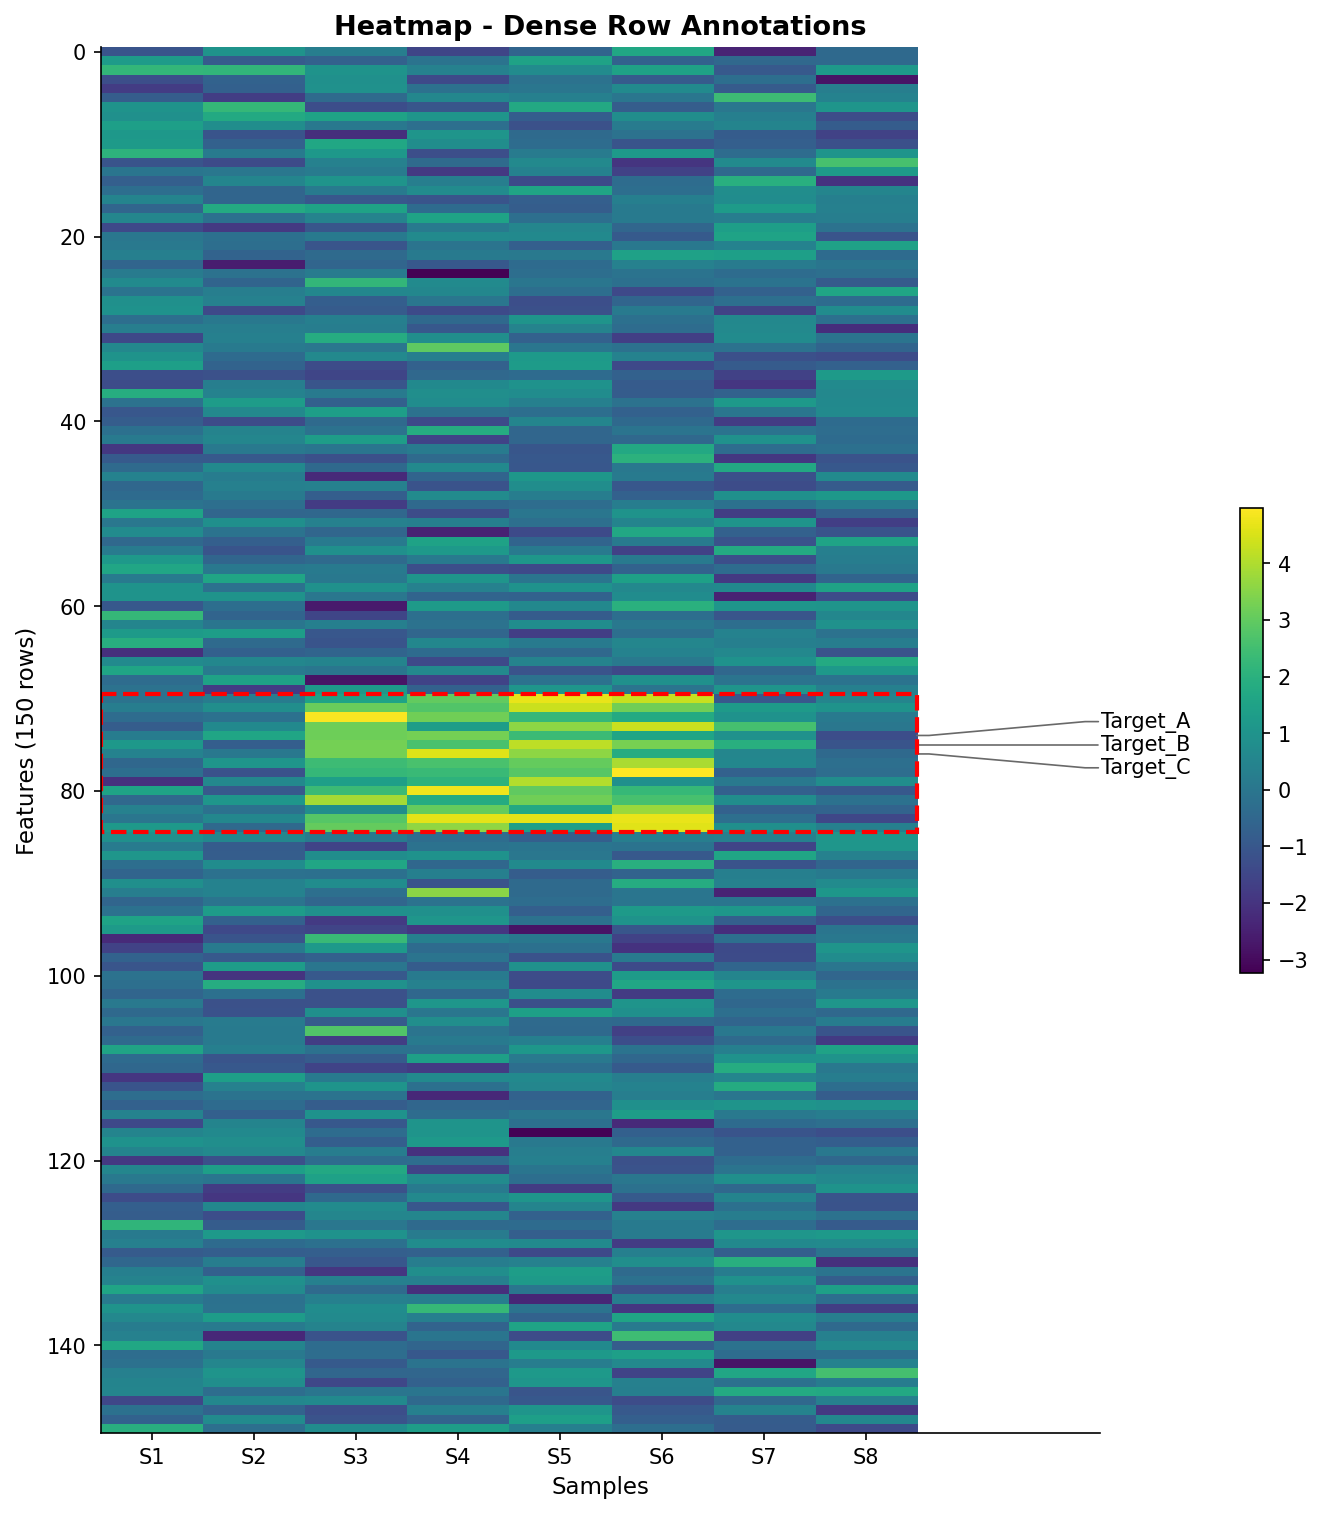
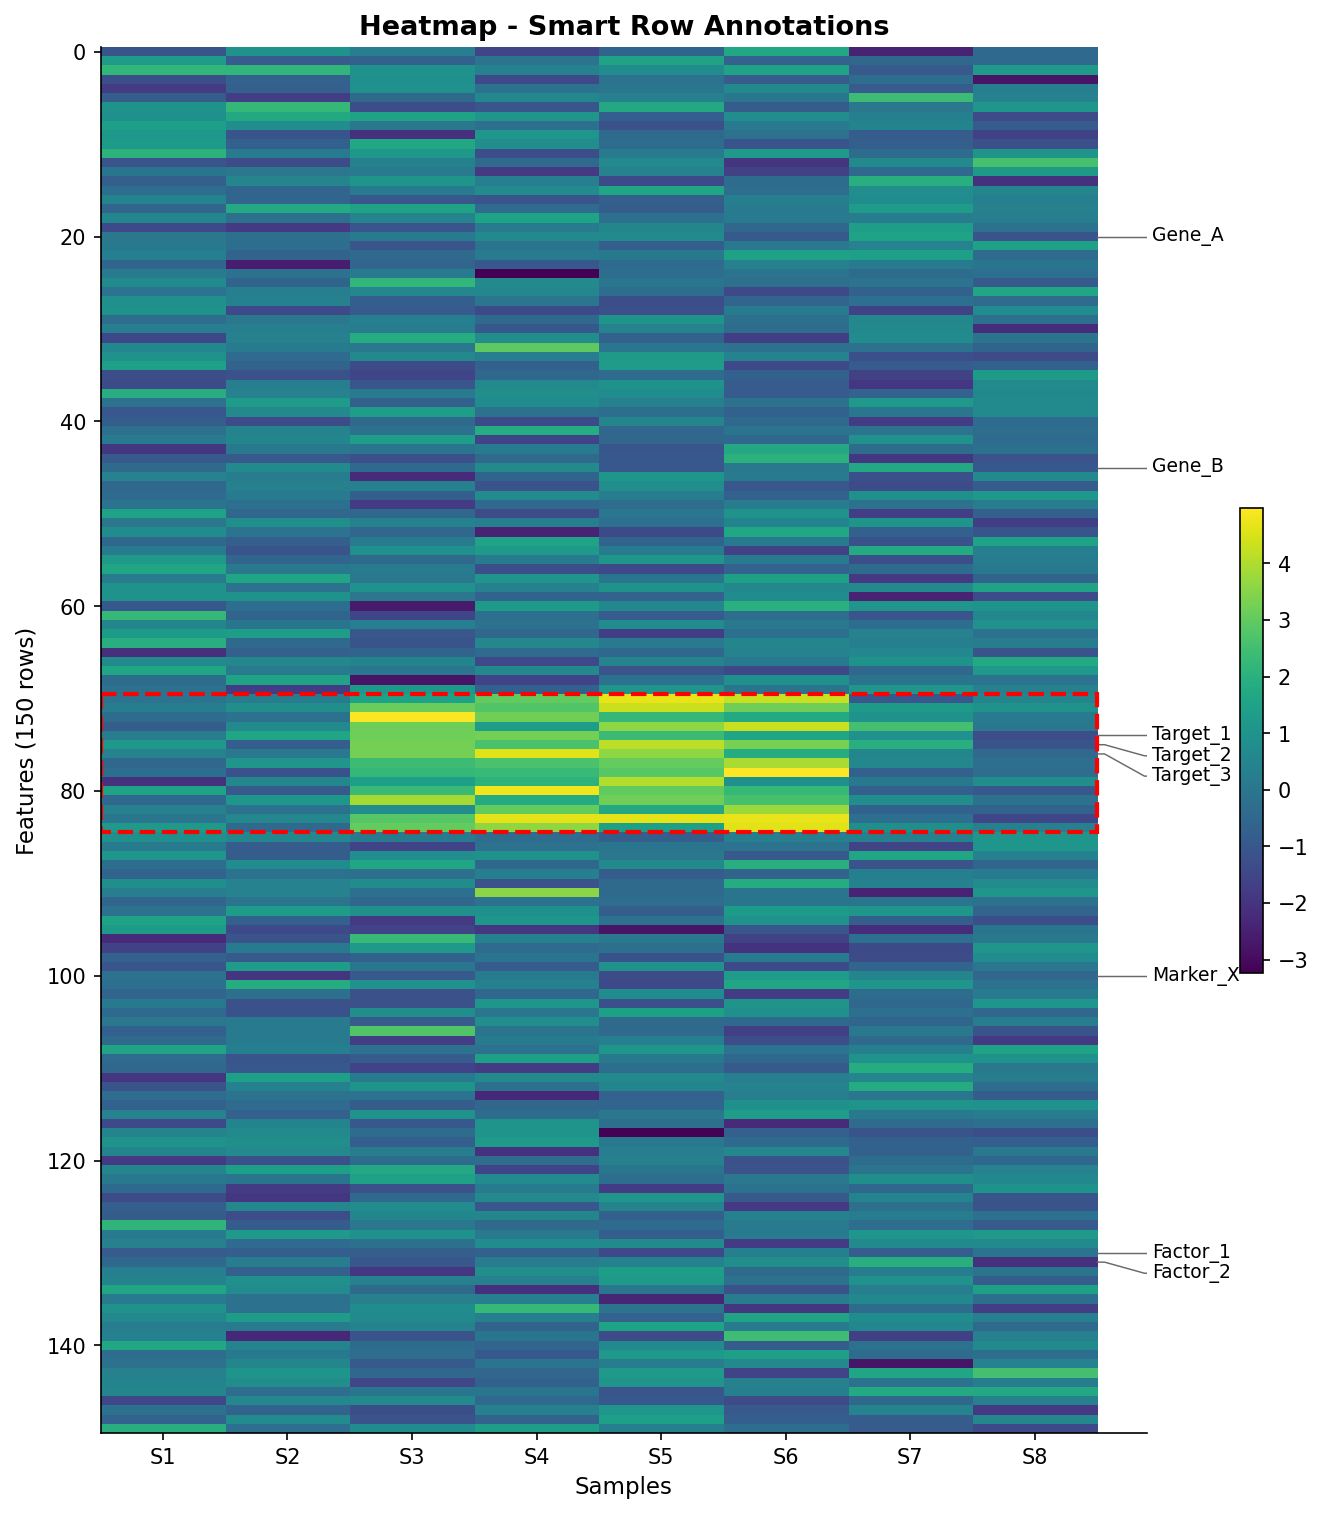
feat: smart heatmap annotation - auto-detect when to dodge
- Far apart rows: simple horizontal line (no dodge)
- Close rows: 3-segment connector to separate labels
- Example shows mix: Gene_A/B, Marker_X use straight lines
- Target_1/2/3 and Factor_1/2 use dodge connectors

diff --git a/pyforce/annotations.py b/pyforce/annotations.py
@@ -1269,17 +1269,13 @@ def annotate_heatmap_rows(
     label_color: str = "black",
     line_color: str = "gray",
     linewidth: float = 0.6,
-    min_spacing: float = 2.0,
+    min_spacing: float = 1.5,
 ) -> List[plt.Artist]:
     """
-    Annotate specific rows in a heatmap with 3-segment connectors.
+    Smart heatmap row annotation with automatic dodge detection.
 
-    Creates connectors immediately adjacent to heatmap cells:
-    1. Short horizontal from cell edge
-    2. Diagonal to separate labels
-    3. Short horizontal to label
-
-    Labels are sorted by row position to prevent line crossing.
+    - If rows are far apart: simple horizontal line (no dodge)
+    - If rows are close (labels would overlap): 3-segment connector to separate
 
     Parameters
     ----------
@@ -1301,65 +1297,71 @@ def annotate_heatmap_rows(
         Color for connector lines
     linewidth : float, default=0.6
         Width of connector lines
-    min_spacing : float, default=2.0
-        Minimum spacing between labels (in row units)
+    min_spacing : float, default=1.5
+        Minimum vertical spacing between labels
 
     Returns
     -------
     list of matplotlib.artist.Artist
         Created artists (patches and text)
-
-    Example
-    -------
-    >>> import matplotlib.pyplot as plt
-    >>> import numpy as np
-    >>> from pyforce import annotate_heatmap_rows
-    >>> data = np.random.randn(100, 6)
-    >>> fig, ax = plt.subplots()
-    >>> ax.imshow(data, aspect='auto')
-    >>> ax.set_xlim(-0.5, 8)  # Small extension for labels
-    >>> annotate_heatmap_rows(ax, [40, 41, 42], ['A', 'B', 'C'], n_cols=6)
     """
     xlim = ax.get_xlim()
     artists = []
 
-    # Sort by row position to prevent crossing
+    # Sort by row position
     sorted_data = sorted(zip(rows_to_annotate, row_labels), key=lambda x: x[0])
     rows_sorted = [x[0] for x in sorted_data]
     labels_sorted = [x[1] for x in sorted_data]
-    n_labels = len(rows_sorted)
-
-    # Calculate label positions - centered, with minimum spacing
-    total_height = (n_labels - 1) * min_spacing
-    y_center = sum(rows_sorted) / n_labels
-    y_start = y_center - total_height / 2
-    label_y_positions = [y_start + i * min_spacing for i in range(n_labels)]
 
     if side == "right":
         heatmap_edge = n_cols - 0.5
-        # CLOSE to heatmap - small segments
-        elbow_x = heatmap_edge + 0.12  # First horizontal ends here
-        label_align_x = xlim[1] - 0.15  # Third horizontal starts here
-        label_x = xlim[1] - 0.02  # Label position
+        label_x = xlim[1] + 0.02
         ha = "left"
         direction = 1
     else:
         heatmap_edge = -0.5
-        elbow_x = heatmap_edge - 0.12
-        label_align_x = xlim[0] + 0.15
-        label_x = xlim[0] + 0.02
+        label_x = xlim[0] - 0.02
         ha = "right"
         direction = -1
 
+    # Smart label positioning: only dodge when labels would overlap
+    label_y_positions = []
+    for i, row in enumerate(rows_sorted):
+        if i == 0:
+            label_y_positions.append(float(row))
+        else:
+            prev_label_y = label_y_positions[-1]
+            # Check if this row is too close to previous label
+            if row - prev_label_y < min_spacing:
+                # Need to dodge - push label down
+                label_y_positions.append(prev_label_y + min_spacing)
+            else:
+                # Far enough apart - no dodge needed
+                label_y_positions.append(float(row))
+
     for row, label, label_y in zip(rows_sorted, labels_sorted, label_y_positions):
-        # 3-segment connector: horizontal → diagonal → horizontal
-        vertices = np.array([
-            [heatmap_edge, row],       # Start at cell edge
-            [elbow_x, row],            # End of first horizontal
-            [label_align_x, label_y],  # End of diagonal
-            [label_x, label_y],        # At label
-        ])
-        codes = [Path.MOVETO, Path.LINETO, Path.LINETO, Path.LINETO]
+        # Check if dodge is needed (label_y differs from row)
+        needs_dodge = abs(label_y - row) > 0.1
+
+        if needs_dodge:
+            # 3-segment connector: horizontal → diagonal → horizontal
+            elbow_x = heatmap_edge + direction * 0.06
+            label_align_x = label_x - direction * 0.04
+
+            vertices = np.array([
+                [heatmap_edge, row],
+                [elbow_x, row],
+                [label_align_x, label_y],
+                [label_x, label_y],
+            ])
+            codes = [Path.MOVETO, Path.LINETO, Path.LINETO, Path.LINETO]
+        else:
+            # Simple horizontal line - no dodge needed
+            vertices = np.array([
+                [heatmap_edge, row],
+                [label_x, row],
+            ])
+            codes = [Path.MOVETO, Path.LINETO]
 
         path = Path(vertices, codes)
         patch = PathPatch(
@@ -1375,7 +1377,7 @@ def annotate_heatmap_rows(
 
         # Add label
         text_obj = ax.text(
-            label_x + direction * 0.03,
+            label_x + direction * 0.02,
             label_y,
             label,
             fontsize=label_fontsize,

diff --git a/examples/heatmap_annotation.py b/examples/heatmap_annotation.py
@@ -1,8 +1,9 @@
 """
 Heatmap Row Annotation Example
 
-Uses the package function annotate_heatmap_rows() to annotate
-specific rows with 3-segment connectors close to the heatmap.
+Smart annotation that automatically detects when dodge is needed:
+- Far apart rows: simple horizontal line
+- Close rows: 3-segment connector to separate labels
 """
 
 import matplotlib.pyplot as plt
@@ -13,7 +14,7 @@ from pyforce import annotate_heatmap_rows
 
 
 def main():
-    """Heatmap with dense row annotations - 3 continuous rows."""
+    """Heatmap with smart row annotations."""
     np.random.seed(123)
 
     n_rows = 150
@@ -26,44 +27,61 @@ def main():
 
     im = ax.imshow(data, aspect="auto", cmap="viridis")
 
-    # Annotate 3 CONTINUOUS rows
-    rows_to_annotate = [74, 75, 76]
-    row_labels = ["Target_A", "Target_B", "Target_C"]
+    # Mix of rows: some close together (need dodge), some far apart (no dodge)
+    rows_to_annotate = [
+        20,        # Far from others - no dodge
+        45,        # Far from others - no dodge  
+        74, 75, 76,  # Close together - need dodge
+        100,       # Far from others - no dodge
+        130, 131,  # Close together - need dodge
+    ]
+    row_labels = [
+        "Gene_A",
+        "Gene_B", 
+        "Target_1", "Target_2", "Target_3",
+        "Marker_X",
+        "Factor_1", "Factor_2",
+    ]
 
-    # Small extension - labels close to heatmap
-    ax.set_xlim(-0.5, n_cols + 1.3)
+    # Minimal extension - labels right at edge
+    ax.set_xlim(-0.5, n_cols - 0.1)
 
-    # Use package function
+    # Smart annotation - auto-detects when to dodge
     annotate_heatmap_rows(
         ax,
         rows_to_annotate,
         row_labels,
         n_cols,
         side="right",
-        label_fontsize=10,
+        label_fontsize=9,
         label_color="black",
         line_color="dimgray",
-        linewidth=0.8,
-        min_spacing=2.5,
+        linewidth=0.7,
+        min_spacing=2.2,  # Minimum space between labels
     )
 
-    # Highlight region
+    # Highlight notable region
     rect = Rectangle(
-        (-0.5, 70 - 0.5), n_cols, 15,
-        linewidth=2, edgecolor="red", facecolor="none", linestyle="--",
+        (-0.5, 70 - 0.5),
+        n_cols,
+        15,
+        linewidth=2,
+        edgecolor="red",
+        facecolor="none",
+        linestyle="--",
     )
     ax.add_patch(rect)
 
     ax.set_xlabel("Samples", fontsize=11)
     ax.set_ylabel("Features (150 rows)", fontsize=11)
-    ax.set_title("Heatmap - Dense Row Annotations", fontsize=13, fontweight="bold")
+    ax.set_title("Heatmap - Smart Row Annotations", fontsize=13, fontweight="bold")
     ax.set_xticks(range(n_cols))
     ax.set_xticklabels([f"S{i+1}" for i in range(n_cols)])
 
     ax.spines["right"].set_visible(False)
     ax.spines["top"].set_visible(False)
 
-    fig.colorbar(im, ax=ax, fraction=0.02, pad=0.12)
+    fig.colorbar(im, ax=ax, fraction=0.02, pad=0.08)
 
     plt.savefig("heatmap_example.png", dpi=150, bbox_inches="tight")
     print("Saved heatmap_example.png")
